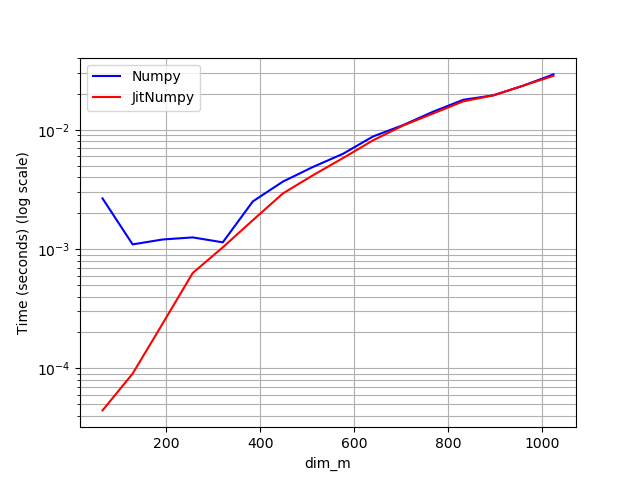
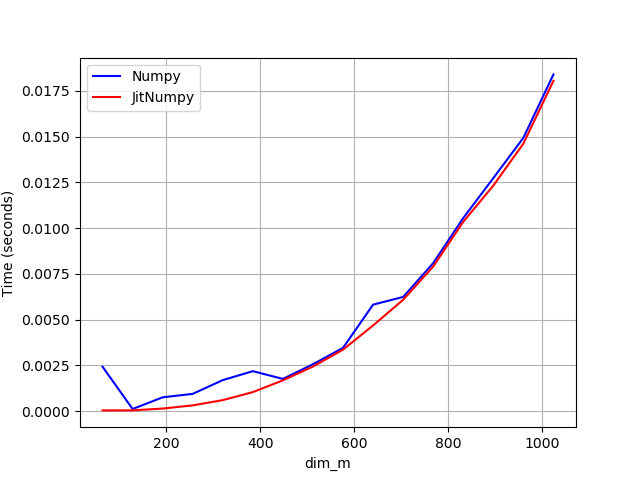
minor changes

Changed region(s): [[0.0, 0.1562, 0.9062, 0.875], [0.0312, 0.1562, 0.125, 0.2188]]

diff --git a/cuda/ex3/main.py b/cuda/ex3/main.py
@@ -58,7 +58,7 @@ def main():
     # PLOT
     plt.plot(list_of_dims, list_of_numpy_times, 'b', label='Numpy')
     plt.plot(list_of_dims, list_of_jit_times, 'r', label='JitNumpy')
-    plt.yscale("log")
+    # plt.yscale("log")
     plt.grid(which='both', axis='both')
     plt.xlabel("dim_m")
     plt.ylabel("Time (seconds)")
